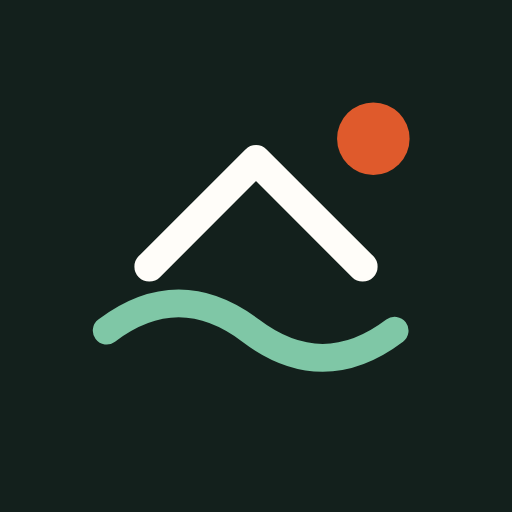
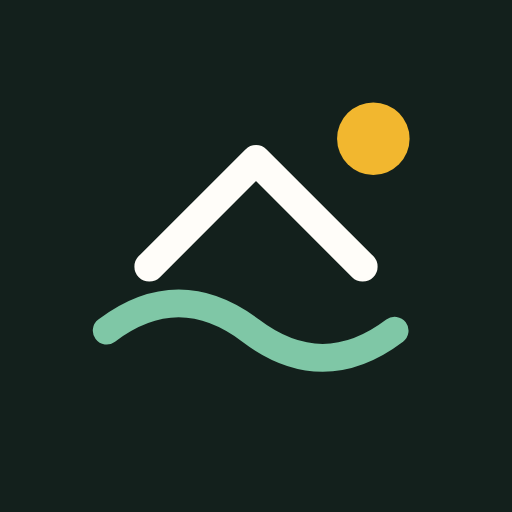
هویت بصری متمایز: رنگبندی سنگ خنک، فیروزهای برای کنشها و زعفرانی برای فرصتها بهجای کرم و نارنجی پیشفرض؛ حذف نشانههای قالب عمومی (رنگ تکواژه در تیتر، خط تزئینی برچسبها، جداکنندهٔ نقطه)، تصویر اشتراک و آیکونهای تازه
Claude-Session: https://claude.ai/code/session_01KKj2fgjXQ9aW6joweZhZpV

Changed region(s): [[0.6562, 0.1875, 0.8125, 0.3438]]

diff --git a/assets/js/app.js b/assets/js/app.js
@@ -275,7 +275,7 @@ const App = (() => {
       const total = cs.reduce((a, x) => a + x.s.n, 0);
       return `<div class="prov__col"><h3>${p.name}<small>${fa(total)} آگهی</small></h3>${cs.slice(0, 8).map(({ c, s }) => {
         const ppm = s.ppm && (s.ppm.apartment || s.ppm.villa);
-        return `<a class="city-row" href="/melk/${c.id}"><b>${c.name}</b><span class="n">${fa(s.n)}</span><small>${c.tags.join("، ")}${ppm ? ` · میانه متری ${money(ppm)}` : ""}</small><span class="bar"><i style="width:${Math.max(3, (s.n / max) * 100)}%"></i></span></a>`;
+        return `<a class="city-row" href="/melk/${c.id}"><b>${c.name}</b><span class="n">${fa(s.n)}</span><small>${c.tags.join("، ")}${ppm ? `، میانه متری ${money(ppm)}` : ""}</small><span class="bar"><i style="width:${Math.max(3, (s.n / max) * 100)}%"></i></span></a>`;
       }).join("")}${cs.length > 8 ? `<a class="btn btn--ghost btn--sm" href="#/market" style="margin-top:8px">${fa(cs.length - 8)} شهر دیگر</a>` : ""}</div>`;
     }).join("");
   }
@@ -422,8 +422,8 @@ const App = (() => {
       const r = await DataLayer.tickets().catch(() => ({ items: [] }));
       if (!$("#tkList")) return;
       $("#tkList").innerHTML = r.items.length ? r.items.map((t) => `<details class="ticket ${t.user_unread ? "is-new" : ""}" data-t="${t.id}" ${t.user_unread ? "open" : ""}>
-          <summary><b>#${fa(t.id)} · ${esc(t.category_name)}</b><span class="tk-st tk-st--${t.status}">${esc(t.status_name)}</span><small>${UI.ago(t.updated)}</small></summary>
-          <div class="ticket__msgs">${t.messages.map((m) => `<div class="tmsg tmsg--${m.sender}"><small>${m.sender === "user" ? "شما" : m.sender === "auto" ? "پاسخ خودکار" : "پشتیبانی"} · ${UI.ago(m.created)}</small><p>${esc(m.body || "")}</p>${m.has_image ? `<button type="button" class="btn btn--line btn--sm" data-img="${m.id}">نمایش پیوست</button>` : ""}</div>`).join("")}</div>
+          <summary><b>#${fa(t.id)}، ${esc(t.category_name)}</b><span class="tk-st tk-st--${t.status}">${esc(t.status_name)}</span><small>${UI.ago(t.updated)}</small></summary>
+          <div class="ticket__msgs">${t.messages.map((m) => `<div class="tmsg tmsg--${m.sender}"><small>${m.sender === "user" ? "شما" : m.sender === "auto" ? "پاسخ خودکار" : "پشتیبانی"}، ${UI.ago(m.created)}</small><p>${esc(m.body || "")}</p>${m.has_image ? `<button type="button" class="btn btn--line btn--sm" data-img="${m.id}">نمایش پیوست</button>` : ""}</div>`).join("")}</div>
           ${t.status !== "closed" ? `<form class="ticket__reply" data-r="${t.id}"><textarea class="input" rows="2" maxlength="3000" placeholder="پاسخ یا توضیح بیشتر"></textarea><input type="file" accept="image/jpeg,image/png,image/webp,application/pdf"><button class="btn btn--ink btn--sm">ارسال</button></form>` : `<p class="small muted">این تیکت بسته شده است؛ برای مشکل تازه، تیکت تازه ثبت کنید.</p>`}
         </details>`).join("") : `<div class="empty"><p>هنوز تیکتی ثبت نکردهاید.</p></div>`;
       r.items.filter((t) => t.user_unread).forEach((t) => DataLayer.seenTicket(t.id));
@@ -555,14 +555,14 @@ const App = (() => {
       const row = mrows.rows.find((r) => r.deal === "sale" && r.kind === kg && norm(r.district) === norm(dist));
       if (!row || row.n < 5) { $("#vOut").innerHTML = `<span>در ${esc(dist)} هنوز ${row ? "فقط " + fa(row.n) + " آگهی معتبر" : "آگهی معتبری"} از این نوع هست؛ برای تخمین قابل اتکا دستکم ۵ آگهی هممحله لازم است.</span>`; return; }
       if (!area) { $("#vOut").innerHTML = "<span>متراژ را وارد کن.</span>"; return; }
-      $("#vOut").innerHTML = `<b>حدود ${money(row.median * area)} تومان</b><span>بازهٔ معمول ${money(row.p25 * area)} تا ${money(row.p75 * area)} · میانهٔ هر متر در ${esc(dist)} ${money(row.median)} از ${fa(row.n)} آگهی معتبر، به نرخ امروز${DataLayer.samples ? " (داده نمونه)" : ""}</span>${year ? `<span class="small">سن بنا در این بازه لحاظ نشده؛ برای اثر دقیق سال ساخت، آگهیهای همین محله را در <a href="#/market?city=${city}">صفحهٔ بازار</a> ببین.</span>` : ""}`;
+      $("#vOut").innerHTML = `<b>حدود ${money(row.median * area)} تومان</b><span>بازهٔ معمول ${money(row.p25 * area)} تا ${money(row.p75 * area)}، میانهٔ هر متر در ${esc(dist)} ${money(row.median)} از ${fa(row.n)} آگهی معتبر، به نرخ امروز${DataLayer.samples ? " (داده نمونه)" : ""}</span>${year ? `<span class="small">سن بنا در این بازه لحاظ نشده؛ برای اثر دقیق سال ساخت، آگهیهای همین محله را در <a href="#/market?city=${city}">صفحهٔ بازار</a> ببین.</span>` : ""}`;
     };
     fillDists().then(val);
     const loan = () => {
       const P = num($("#lAmt").value), r = num($("#lRate").value) / 1200, n = num($("#lYears").value) * 12;
       if (!P || !n) { $("#lOut").innerHTML = ""; return; }
       const pay = r ? (P * r) / (1 - Math.pow(1 + r, -n)) : P / n;
-      $("#lOut").innerHTML = `<b>${fa(Math.round(pay))} تومان</b><span>قسط ماهانه · کل بازپرداخت ${money(pay * n)} · سود ${money(pay * n - P)}</span>`;
+      $("#lOut").innerHTML = `<b>${fa(Math.round(pay))} تومان</b><span>قسط ماهانه، کل بازپرداخت ${money(pay * n)}، سود ${money(pay * n - P)}</span>`;
     };
     const conv = () => {
       const d = num($("#cDep").value), rent = num($("#cRent").value), r = num($("#cRate").value) / 100;
@@ -886,7 +886,7 @@ const App = (() => {
     return `<div class="vcard">
       <div class="vcard__top">
         ${l.score != null ? `<span class="score score--${l.score >= 85 ? "hi" : l.score >= 65 ? "mid" : "lo"} score--big"><b>${fa(Math.round(l.score))}</b><i>از ۱۰۰</i></span>` : ""}
-        <div><h3>${UI.dealPill(v)}</h3><p class="small muted">${UI.confLine(v)}${v.rank ? ` · رتبهٔ ${fa(v.rank)} از ${fa(v.rank_n)} فرصت این محله` : ""}</p></div>
+        <div><h3>${UI.dealPill(v)}</h3><p class="small muted">${UI.confLine(v)}${v.rank ? `، رتبهٔ ${fa(v.rank)} از ${fa(v.rank_n)} فرصت این محله` : ""}</p></div>
       </div>
       ${claimNote(l, v)}
       ${expM ? UI.priceBar(meM, expM) : ""}
@@ -1001,7 +1001,7 @@ const App = (() => {
           <header class="ad__head">
             <div class="ad__badges">${UI.typePill(l)}${l.price_drop ? `<span class="pill pill--drop">${fa(Math.round(l.price_drop * 100))}٪ کاهش قیمت</span>` : ""}${l.source === "sample" ? '<span class="pill pill--demo">آگهی نمونه</span>' : ""}</div>
             <h1>${UI.tt(l.title)}</h1>
-            <p class="muted">${esc([c && "استان " + UI.provOf(c.province).name, c ? c.name : l.city_name, l.district].filter(Boolean).join("، "))}${l.first_seen ? " · ثبت در سامانه " + UI.ago(l.first_seen) : ""}</p>
+            <p class="muted">${esc([c && "استان " + UI.provOf(c.province).name, c ? c.name : l.city_name, l.district].filter(Boolean).join("، "))}${l.first_seen ? "، ثبت در سامانه " + UI.ago(l.first_seen) : ""}</p>
             <div class="ad__price">${UI.priceHTML(l, true)}</div>
           </header>
           <div class="facts">${facts.filter(([, x]) => x).map(([k, x]) => `<div><span>${k}</span><b>${esc(x)}</b></div>`).join("")}</div>
@@ -1033,7 +1033,7 @@ const App = (() => {
     document.title = `${l.title} | ${cfg.site.name}`;
     const cc = UI.cityOf(l.city_key), pos = l.latlng_exact || !cc ? [l.lat, l.lng] : [cc.lat, cc.lng];
     const mini = UI.makeMap($("#mini"), { center: pos, zoom: l.latlng_exact ? 14 : 12, wheel: false });
-    if (mini) L.circle(pos, { radius: l.latlng_exact ? 150 : 2200, color: "#df5a2c", weight: 2, fillOpacity: 0.1, dashArray: l.latlng_exact ? null : "6 6" }).addTo(mini);
+    if (mini) L.circle(pos, { radius: l.latlng_exact ? 150 : 2200, color: "#0b6f79", weight: 2, fillOpacity: 0.1, dashArray: l.latlng_exact ? null : "6 6" }).addTo(mini);
     $("#gal").addEventListener("click", (e) => { const b = e.target.closest("[data-img]"); if (b) lightbox(l, imgs.length ? Math.min(+b.dataset.img, imgs.length - 1) : +b.dataset.img); });
     $("#adFav").addEventListener("click", (e) => { toggleFav(l.id); e.currentTarget.querySelector("span").textContent = state.favs.has(l.id) ? "ذخیره شد" : "ذخیره"; });
     $("#adShare").addEventListener("click", async () => {
@@ -1082,7 +1082,7 @@ const App = (() => {
   function hbars(groups, cityMed, unit = "") {
     if (!groups.length) return `<p class="muted small">دادهٔ کافی نیست.</p>`;
     const max = Math.max(...groups.map((g) => g.median_ppm), cityMed || 0) * 1.08;
-    return `<div class="hb">${groups.map((g) => `<div class="hb__row"><span class="hb__lab">${esc(g.label)}<small>${fa(g.n)} آگهی${g.low ? " · دادهٔ کم" : ""}</small></span><span class="hb__track"><i style="width:${(g.median_ppm / max) * 100}%"></i>${cityMed ? `<em style="right:${(cityMed / max) * 100}%"></em>` : ""}</span><b>${mln(g.median_ppm)}${unit}</b></div>`).join("")}</div>`;
+    return `<div class="hb">${groups.map((g) => `<div class="hb__row"><span class="hb__lab">${esc(g.label)}<small>${fa(g.n)} آگهی${g.low ? "، دادهٔ کم" : ""}</small></span><span class="hb__track"><i style="width:${(g.median_ppm / max) * 100}%"></i>${cityMed ? `<em style="right:${(cityMed / max) * 100}%"></em>` : ""}</span><b>${mln(g.median_ppm)}${unit}</b></div>`).join("")}</div>`;
   }
   async function marketPage(params) {
     const city = params.city || "rasht", deal = params.deal === "rent" ? "rent" : "sale", kind = params.kind || "apartment";
@@ -1122,7 +1122,7 @@ const App = (() => {
       : `<b class="amen__pct">${a.premium >= 0 ? "+" : "−"}${pct(a.premium)}</b><p>درون یک محله، ${a.name} هر متر را حدود ${pct(a.premium)} ${a.premium >= 0 ? "گرانتر" : "ارزانتر"} میکند؛ در ${fa(a.higher)} از ${fa(a.districts)} محله گرانتر است.${a.share != null ? ` ${pct(a.share)} آگهیها ${a.name} دارند.` : ""}</p>`;
     $("#mBody").innerHTML = `
       <header class="mkt-hero">
-        <span class="kicker">بازار ${KG[kind]} ${esc(cname)}${DataLayer.samples ? " · داده نمونه و ساختگی" : ""}</span>
+        <span class="kicker">بازار ${KG[kind]} ${esc(cname)}${DataLayer.samples ? "، داده نمونه و ساختگی" : ""}</span>
         <h1>${rentWord}هر متر ${KG[kind]} در ${esc(cname)}، میانه <span class="hl">${mln(o.median_ppm)}</span> میلیون تومان${o.spread && o.n_districts >= 2 ? `؛ محلهها تا <span class="hl">${fa(+o.spread.toFixed(1))}</span> برابر فرق دارند` : ""}</h1>
         <p class="lead">قیمت هر متر، بودجه، خواب، سن بنا و محلهبهمحله؛ همه از آگهیهای معتبر ${UI.dealName(deal)} ${KG[kind]} ${esc(cname)} در سایتهای آگهی. روی هر ردیف بزن تا همان آگهیها را ببینی.</p>
         <div class="mkt-kpis">
@@ -1260,7 +1260,7 @@ const App = (() => {
       }
       setTimeout(() => $("#aiInput").focus(), 50);
     }
-    const mini = (ls) => `<div class="mini">${ls.map((l) => `<a href="#/ad/${encodeURIComponent(l.id)}"><span class="mini__img">${UI.media(l)}</span><span><b>${UI.tt(l.title)}</b><small>${l.score != null ? fa(Math.round(l.score)) + " امتیاز · " : ""}${esc(UI.pinLabel(l))}${l.verdict && l.verdict.delta < 0 ? "، " + UI.gapPct(l.verdict) + " زیر قیمت" : ""}</small></span></a>`).join("")}</div>`;
+    const mini = (ls) => `<div class="mini">${ls.map((l) => `<a href="#/ad/${encodeURIComponent(l.id)}"><span class="mini__img">${UI.media(l)}</span><span><b>${UI.tt(l.title)}</b><small>${l.score != null ? fa(Math.round(l.score)) + " امتیاز، " : ""}${esc(UI.pinLabel(l))}${l.verdict && l.verdict.delta < 0 ? "، " + UI.gapPct(l.verdict) + " زیر قیمت" : ""}</small></span></a>`).join("")}</div>`;
     async function respond(v) {
       const it = NLP.intent(v);
       if (it === "greet") { say("درود! کدام شهر و چه نوع ملکی؟ بودجه را هم بگو."); return; }

diff --git a/assets/css/style.css b/assets/css/style.css
@@ -8,11 +8,12 @@
   font-weight: 100 900; font-style: normal; font-display: swap;
 }
 :root {
-  --paper: #f4f0e8; --paper-2: #ece6da; --surface: #fffdf9; --sunk: #f0ebe1;
-  --ink: #13201c; --ink-2: #45524c; --muted: #7d867f; --line: #e1d9ca; --line-2: #d3c9b6;
-  --forest: #1d4a3c; --forest-2: #2c6a55; --moss: #dfe8df;
-  --narenj: #df5a2c; --narenj-2: #c24a20; --narenj-soft: #fbe6dc;
-  --sea: #2a6d8c; --sea-soft: #dcebf1; --gold: #b4862a;
+  /* سنگ خنک، جوهر، سبز برند، فیروزهای برای کنشها و زعفرانی برای فرصتها */
+  --paper: #f3f5f2; --paper-2: #e8ece6; --surface: #ffffff; --sunk: #edf1eb;
+  --ink: #12211d; --ink-2: #3d4b45; --muted: #69766f; --line: #dbe1d8; --line-2: #c7cfc4;
+  --forest: #1d4a3c; --forest-2: #2c6a55; --moss: #e0ebe4;
+  --narenj: #0b6f79; --narenj-2: #08585f; --narenj-soft: #dbeef0;
+  --sea: #2a6d8c; --sea-soft: #dcebf1; --gold: #a87a10;
   --great: #17784a; --good: #4c9a5c; --fair: #8b8f86; --high: #c97a1f; --over: #bf3a2b;
   --sale: #1d4a3c; --rent: #6d3fb4; --daily: #c8366b;
   --on-dark: #fffdf9;
@@ -29,7 +30,7 @@
   --paper: #0d1311; --paper-2: #121a17; --surface: #151e1b; --sunk: #101714;
   --ink: #ece6da; --ink-2: #b7c0b9; --muted: #838d86; --line: #243029; --line-2: #2f3d36;
   --forest: #7fc7a6; --forest-2: #9bd8bb; --moss: #1b2a24;
-  --narenj: #f07a4b; --narenj-2: #ff9468; --narenj-soft: #3a2018;
+  --narenj: #4fc0c9; --narenj-2: #7ad3da; --narenj-soft: #11302f;
   --sea: #6cb4d4; --sea-soft: #13262e; --sale: #7fc7a6; --rent: #b293ea; --daily: #f07aa3;
   --on-dark: #0d1311;
   --shadow-2: 0 2px 4px rgba(0,0,0,.3), 0 12px 32px -12px rgba(0,0,0,.6);
@@ -78,8 +79,7 @@ p { margin: 0; }
 .icon-btn svg { width: 21px; height: 21px; }
 .dot-count { position: absolute; top: 4px; inset-inline-start: 4px; min-width: 18px; height: 18px; padding: 0 5px; border-radius: 9px; background: var(--narenj); color: #fff; font-size: 11px; font-weight: 700; display: grid; place-items: center; line-height: 1; }
 .dot-count[hidden] { display: none; }
-.kicker { font-size: 13px; font-weight: 700; color: var(--narenj); display: inline-flex; align-items: center; gap: 8px; }
-.kicker::before { content: ""; width: 22px; height: 2px; background: currentColor; border-radius: 2px; }
+.kicker { font-size: 13.5px; font-weight: 700; color: var(--forest); display: inline-flex; align-items: center; gap: 8px; }
 .pill { display: inline-flex; align-items: center; gap: 5px; height: 26px; padding: 0 10px; border-radius: 999px; font-size: 12px; font-weight: 700; white-space: nowrap; }
 .pill--sale { background: var(--sale); color: var(--on-dark); }
 .pill--rent { background: var(--rent); color: #fff; }
@@ -136,7 +136,7 @@ p { margin: 0; }
 .hero { position: relative; padding: 48px 0 0; overflow: clip; }
 .hero__grid { position: relative; z-index: 2; display: grid; grid-template-columns: minmax(0, 1.25fr) minmax(0, .9fr); gap: 48px; align-items: center; }
 .hero h1 { font-size: clamp(34px, 4.3vw, 64px); font-weight: 900; line-height: 1.18; margin: 16px 0 18px; text-wrap: balance; }
-.hero h1 .accent { color: var(--narenj); }
+.hero h1 .accent { color: inherit; }
 .hero h1 .soft { color: var(--forest); }
 .hero__lead { font-size: 17px; color: var(--ink-2); max-width: 560px; }
 .search-card { margin-top: 28px; background: var(--surface); border-radius: var(--r-xl); box-shadow: var(--shadow-3); border: 1px solid var(--line); padding: 10px; }
@@ -216,7 +216,7 @@ p { margin: 0; }
 .card__fav { position: absolute; top: 10px; inset-inline-end: 10px; width: 38px; height: 38px; border-radius: 50%; background: rgba(255,253,249,.92); display: grid; place-items: center; color: #13201c; transition: transform .2s; z-index: 2; }
 .card__fav svg { width: 19px; height: 19px; }
 .card__fav:hover { transform: scale(1.1); }
-.card__fav.is-on { color: #df5a2c; }
+.card__fav.is-on { color: #0b6f79; }
 .card__fav.is-on svg { fill: currentColor; }
 .card__body { padding: 16px 18px 14px; display: flex; flex-direction: column; gap: 4px; flex: 1; }
 .card__price { display: flex; align-items: baseline; gap: 6px; flex-wrap: wrap; }
@@ -290,7 +290,7 @@ p { margin: 0; }
 .pin--car { border-color: var(--sea); } .pin--car::after { border-top-color: var(--sea); }
 .is-hot .pin { background: var(--ink); color: var(--paper); transform: translate(-50%, -100%) scale(1.15); }
 .cluster { display: inline-flex; align-items: center; gap: 6px; transform: translate(-50%, -50%); white-space: nowrap; background: #13201c; color: #fffdf9; border-radius: 999px; padding: 4px 14px 4px 4px; font: 700 12.5px Vazirmatn, sans-serif; box-shadow: 0 0 0 5px rgba(19,32,28,.16), 0 6px 16px rgba(0,0,0,.25); cursor: pointer; transition: transform .15s; }
-.cluster b { background: #df5a2c; color: #fff; border-radius: 999px; min-width: 26px; height: 26px; display: grid; place-items: center; padding: 0 7px; }
+.cluster b { background: #0b6f79; color: #fff; border-radius: 999px; min-width: 26px; height: 26px; display: grid; place-items: center; padding: 0 7px; }
 .cluster:hover { transform: translate(-50%, -50%) scale(1.07); }
 
 /* ---------- صفحه آگهی ---------- */
@@ -377,12 +377,12 @@ p { margin: 0; }
 .broker { display: grid; grid-template-columns: 1.1fr 1fr; gap: 56px; align-items: center; }
 .broker h2 { font-size: clamp(28px, 3.4vw, 46px); font-weight: 900; margin: 12px 0 14px; }
 .broker > div > p { color: rgba(255,253,249,.75); font-size: 16px; }
-.broker .kicker { color: #ff9a70; }
+.broker .kicker { color: #7fd3d9; }
 .broker__cta { display: flex; gap: 10px; flex-wrap: wrap; margin-top: 26px; }
 .broker__cta .btn--line { background: transparent; color: #fffdf9; border-color: rgba(255,255,255,.3); }
 .steps { list-style: none; padding: 0; margin: 0; display: grid; gap: 12px; counter-reset: s; }
 .steps li { counter-increment: s; display: grid; grid-template-columns: 48px 1fr; gap: 14px; align-items: center; padding: 16px; background: rgba(255,255,255,.05); border-radius: var(--r-lg); border: 1px solid rgba(255,255,255,.08); }
-.steps li::before { content: counter(s, persian); width: 48px; height: 48px; border-radius: 50%; background: #df5a2c; color: #fff; display: grid; place-items: center; font-weight: 900; font-size: 19px; }
+.steps li::before { content: counter(s, persian); width: 48px; height: 48px; border-radius: 50%; background: #0b6f79; color: #fff; display: grid; place-items: center; font-weight: 900; font-size: 19px; }
 .steps b { display: block; font-size: 15.5px; }
 .steps span { font-size: 13.5px; color: rgba(255,253,249,.7); }
 
@@ -615,7 +615,7 @@ dialog.dlg[open] { animation: pop .25s var(--ease); }
 /* ==========================================================
    حکم قیمت، شناسنامه، بازار و پرداخت (نسخهٔ محلهمحور)
    ========================================================== */
-:root { --gold-hl: #d6fb00; --gold-ink: #13201c; --sus: #b26a00; --sus-bg: #fff4dc; }
+:root { --gold-hl: #f2b72f; --gold-ink: #2a1d00; --sus: #b26a00; --sus-bg: #fff4dc; }
 :root[data-theme="dark"] { --sus: #f0b44a; --sus-bg: #2c2210; }
 .lab { display: inline-flex; align-items: center; height: 24px; padding: 0 9px; border-radius: 6px; font-size: 12px; font-weight: 800; white-space: nowrap; }
 .lab--gold { background: var(--gold-hl); color: var(--gold-ink); box-shadow: inset 0 -2px 0 rgba(0,0,0,.12); }

diff --git a/assets/js/admin.js b/assets/js/admin.js
@@ -26,7 +26,7 @@
     catch { $("#root").innerHTML = `<div class="login"><div class="panel" style="max-width:520px"><h2>پنل مدیریت فقط با سرور محلی کار میکند</h2><p class="muted">فایل <b>start-windows.bat</b> (ویندوز) یا <b>start-mac-linux.sh</b> را اجرا کنید؛ سپس نشانی <code>http://127.0.0.1:8000/admin.html</code> باز میشود.</p></div></div>`; return; }
     const setup = !cfg.admin_ready;
     $("#root").innerHTML = `<div class="login"><form id="lf">
-      <div class="brand"><svg class="brand__mark" viewBox="0 0 48 48"><rect width="48" height="48" rx="14" fill="#13201c"/><path d="M10 31c4.5-3.4 9-3.4 13.5 0s9 3.4 13.5 0" stroke="#7fc7a6" stroke-width="2.6" fill="none" stroke-linecap="round"/><path d="M14 25l10-10 10 10" stroke="#fffdf9" stroke-width="2.8" fill="none" stroke-linecap="round" stroke-linejoin="round"/><circle cx="35" cy="13" r="3.4" fill="#df5a2c"/></svg><span class="brand__txt"><b>پنل مدیریت</b><small>${esc(cfg.site.name)}</small></span></div>
+      <div class="brand"><svg class="brand__mark" viewBox="0 0 48 48"><rect width="48" height="48" rx="14" fill="#13201c"/><path d="M10 31c4.5-3.4 9-3.4 13.5 0s9 3.4 13.5 0" stroke="#7fc7a6" stroke-width="2.6" fill="none" stroke-linecap="round"/><path d="M14 25l10-10 10 10" stroke="#fffdf9" stroke-width="2.8" fill="none" stroke-linecap="round" stroke-linejoin="round"/><circle cx="35" cy="13" r="3.4" fill="#f2b72f"/></svg><span class="brand__txt"><b>پنل مدیریت</b><small>${esc(cfg.site.name)}</small></span></div>
       <h2 style="font-size:20px">${setup ? "تعیین رمز مدیر" : "ورود"}</h2>
       ${setup ? '<p class="muted small">اولین ورود است. رمزی دستکم ۶ نویسه انتخاب کنید و آن را جایی نگه دارید.</p>' : ""}
       <input class="input" type="password" name="pw" placeholder="رمز" required minlength="6" autocomplete="${setup ? "new-password" : "current-password"}">
@@ -53,7 +53,7 @@
     try { S = await api("admin/state"); } catch (e) { if (e.message !== "401") toast(e.message); return; }
     $("#root").innerHTML = `<div class="adm">
       <aside class="side">
-        <a class="brand" href="./" target="_blank"><svg class="brand__mark" viewBox="0 0 48 48"><rect width="48" height="48" rx="14" fill="#fffdf9" fill-opacity=".08"/><path d="M10 31c4.5-3.4 9-3.4 13.5 0s9 3.4 13.5 0" stroke="#7fc7a6" stroke-width="2.6" fill="none" stroke-linecap="round"/><path d="M14 25l10-10 10 10" stroke="#fffdf9" stroke-width="2.8" fill="none" stroke-linecap="round" stroke-linejoin="round"/><circle cx="35" cy="13" r="3.4" fill="#df5a2c"/></svg><span class="brand__txt"><b>${esc(S.site.name)}</b><small>پنل مدیریت</small></span></a>
+        <a class="brand" href="./" target="_blank"><svg class="brand__mark" viewBox="0 0 48 48"><rect width="48" height="48" rx="14" fill="#fffdf9" fill-opacity=".08"/><path d="M10 31c4.5-3.4 9-3.4 13.5 0s9 3.4 13.5 0" stroke="#7fc7a6" stroke-width="2.6" fill="none" stroke-linecap="round"/><path d="M14 25l10-10 10 10" stroke="#fffdf9" stroke-width="2.8" fill="none" stroke-linecap="round" stroke-linejoin="round"/><circle cx="35" cy="13" r="3.4" fill="#f2b72f"/></svg><span class="brand__txt"><b>${esc(S.site.name)}</b><small>پنل مدیریت</small></span></a>
         ${TABS.map(([k, n]) => `<button data-tab="${k}" class="${tab === k ? "is-on" : ""}">${n}${k === "excluded" && S.stats.excluded ? `<span class="badge">${fa(S.stats.excluded)}</span>` : ""}${k === "support" && S.tickets_unread ? `<span class="badge">${fa(S.tickets_unread)}</span>` : ""}</button>`).join("")}
         <div class="side__foot"><a href="./" target="_blank">مشاهده سایت ↗</a><a href="#" id="logout">خروج</a></div>
       </aside>
@@ -366,7 +366,7 @@
     const sp = r.support, CAT = { payment: "پرداخت و اشتراک", sms: "پیامک و کد ورود", listing: "آگهیها و قیمتها", other: "سایر" };
     main().innerHTML = `<h1>پشتیبانی و تیکتها</h1><p class="muted">تیکتهای کاربران؛ پیوست رسید تیکتهای پرداخت، اگر کاربر پرداخت کارتبهکارتِ در انتظار داشته باشد، خودکار به همان پرداخت وصل میشود و در «کاربران و پرداختها» برای تأیید میآید.</p>
       <div class="panel"><div style="display:flex;gap:6px;flex-wrap:wrap">${[["", "همه"], ["open", "در انتظار پاسخ"], ["answered", "پاسخ داده شد"], ["closed", "بسته"]].map(([k, n]) => `<button class="btn btn--sm ${st === k ? "btn--ink" : "btn--line"}" data-f="${k}">${n}</button>`).join("")}</div></div>
-      ${r.items.length ? r.items.map((t) => `<div class="panel" style="${t.admin_unread && t.status !== "closed" ? "border-color:var(--hot, #df5a2c)" : ""}">
+      ${r.items.length ? r.items.map((t) => `<div class="panel" style="${t.admin_unread && t.status !== "closed" ? "border-color:var(--narenj)" : ""}">
         <div style="display:flex;gap:10px;flex-wrap:wrap;align-items:center"><b>#${fa(t.id)} · ${esc(t.category_name)}</b><span dir="ltr">${esc(t.phone)}</span><span class="muted small">${when(t.created)}</span><span class="small">${esc(t.status_name)}</span>${t.payment_id ? `<span class="small">پرداخت #${fa(t.payment_id)}</span>` : ""}</div>
         <div style="display:grid;gap:6px;margin:10px 0">${t.messages.map((m) => `<div style="background:var(--sunk, #f4f1ea);border-radius:10px;padding:8px 12px"><small class="muted">${m.sender === "user" ? "کاربر" : m.sender === "auto" ? "پاسخ خودکار" : "پشتیبانی"} · ${when(m.created)}</small><div style="white-space:pre-wrap;overflow-wrap:anywhere">${esc(m.body || "")}</div>${m.has_image ? `<button class="btn btn--line btn--sm" data-img="${m.id}">نمایش پیوست</button>` : ""}</div>`).join("")}</div>
         <form data-t="${t.id}" style="display:grid;gap:8px"><textarea class="input" rows="2" placeholder="پاسخ به کاربر" style="padding:8px 12px"></textarea>

diff --git a/assets/js/ui.js b/assets/js/ui.js
@@ -91,7 +91,7 @@ const UI = (() => {
     else if (k === "apartment" || k === "office") obj = `<g transform="translate(150 40)"><rect width="100" height="162" rx="4" fill="#fffdf9"/>${Array.from({ length: 6 }, (_, r) => [0, 1, 2].map((c) => `<rect x="${12 + c * 28}" y="${12 + r * 24}" width="20" height="14" rx="2" fill="${(r + c + v) % 3 ? "#a9cfdc" : "#f2c48d"}"/>`).join("")).join("")}</g>`;
     else if (k === "suite") obj = `<g transform="translate(150 112)"><rect width="100" height="80" rx="4" fill="#fffdf9"/><rect y="-8" width="100" height="10" rx="3" fill="${roof}"/><rect x="14" y="20" width="30" height="24" rx="2" fill="#a9cfdc"/><rect x="58" y="30" width="26" height="50" rx="2" fill="#7a4a2a"/></g>`;
     else if (k === "shop") obj = `<g transform="translate(130 92)"><rect width="140" height="100" rx="3" fill="#fffdf9"/>${[0, 1, 2, 3, 4, 5, 6].map((i) => `<path d="M${i * 20} 0 h20 l-3 16 h-14z" fill="${i % 2 ? "#fffdf9" : roof}"/>`).join("")}<rect x="14" y="40" width="70" height="60" fill="#cfe4ea"/><rect x="94" y="48" width="32" height="52" fill="#45524c"/></g>`;
-    else if (k === "garden") obj = Array.from({ length: 9 }, (_, i) => `<g transform="translate(${40 + i * 40} ${166 + (i % 2) * 18})"><rect x="-3" width="6" height="22" fill="#7a4a2a"/><circle r="18" cy="-6" fill="${g2}"/><circle r="4" cx="6" cy="-10" fill="#df5a2c"/></g>`).join("");
+    else if (k === "garden") obj = Array.from({ length: 9 }, (_, i) => `<g transform="translate(${40 + i * 40} ${166 + (i % 2) * 18})"><rect x="-3" width="6" height="22" fill="#7a4a2a"/><circle r="18" cy="-6" fill="${g2}"/><circle r="4" cx="6" cy="-10" fill="#0b6f79"/></g>`).join("");
     else if (k === "land") obj = `<g stroke="#7a4a2a" stroke-width="3">${Array.from({ length: 11 }, (_, i) => `<line x1="${30 + i * 34}" y1="172" x2="${30 + i * 34}" y2="202"/>`).join("")}<line x1="30" y1="180" x2="370" y2="180"/><line x1="30" y1="194" x2="370" y2="194"/></g>`;
     return `<svg viewBox="0 0 400 240" preserveAspectRatio="xMidYMid slice" role="img" aria-label="${esc(l.title)}"><defs><linearGradient id="${id}" x1="0" y1="0" x2="0" y2="1"><stop offset="0" stop-color="${s1}"/><stop offset="1" stop-color="${s2}"/></linearGradient></defs><rect width="400" height="240" fill="url(#${id})"/><circle cx="${sx}" cy="50" r="20" fill="#f6d27a" opacity=".85"/>${ground}${obj}</svg>`;
   }
@@ -157,7 +157,7 @@ const UI = (() => {
     const ppmLine = l.deal === "sale" && l.ppm ? `متری ${money(l.ppm)}` : "";
     const verdictRow = l.label === "sus"
       ? `<p class="card__verdict"><span class="lab lab--sus">قیمت مشکوک</span> <span class="small">${esc(l.sus_reason || "")}</span></p>`
-      : v ? `<p class="card__verdict">${dealPill(v)}</p><p class="card__conf">${confLine(v)}${v.wide ? " · قیمتهای این محله پراکندهاند" : ""}</p>`
+      : v ? `<p class="card__verdict">${dealPill(v)}</p><p class="card__conf">${confLine(v)}${v.wide ? "، قیمتهای این محله پراکندهاند" : ""}</p>`
       : `<p class="card__verdict"><span class="lab lab--pending">در انتظار داده</span></p>`;
     return `<article class="card${l.label === "gold" ? " card--gold" : ""}" data-id="${esc(l.id)}">
       <div class="card__media">${media(l)}

diff --git a/admin.html b/admin.html
@@ -15,7 +15,7 @@
     .side button { text-align: start; padding: 11px 14px; border-radius: 12px; font-weight: 600; color: rgba(255,253,249,.75); display: flex; justify-content: space-between; align-items: center; }
     .side button:hover { background: rgba(255,255,255,.06); color: #fff; }
     .side button.is-on { background: rgba(255,255,255,.1); color: #fff; }
-    .side .badge { background: #df5a2c; color: #fff; border-radius: 999px; font-size: 11px; padding: 0 7px; min-width: 20px; text-align: center; }
+    .side .badge { background: #f2b72f; color: #fff; border-radius: 999px; font-size: 11px; padding: 0 7px; min-width: 20px; text-align: center; }
     .side__foot { margin-top: auto; display: grid; gap: 6px; font-size: 13px; }
     .side__foot a { color: rgba(255,253,249,.75); padding: 8px 14px; }
     .main { padding: 28px 32px 60px; max-width: 1180px; }

diff --git a/index.html b/index.html
@@ -23,7 +23,7 @@
           <rect width="48" height="48" rx="14" fill="#13201c"/>
           <path d="M10 31c4.5-3.4 9-3.4 13.5 0s9 3.4 13.5 0" stroke="#7fc7a6" stroke-width="2.6" fill="none" stroke-linecap="round"/>
           <path d="M14 25l10-10 10 10" stroke="#fffdf9" stroke-width="2.8" fill="none" stroke-linecap="round" stroke-linejoin="round"/>
-          <circle cx="35" cy="13" r="3.4" fill="#df5a2c"/>
+          <circle cx="35" cy="13" r="3.4" fill="#f2b72f"/>
         </svg>
         <span class="brand__txt"><b data-site="name">فرصتیاب</b><small data-site="tagline">ملک زیر قیمت، محله به محله</small></span>
       </a>

diff --git a/server/seo.py b/server/seo.py
@@ -269,7 +269,7 @@ def city(app, base, key):
             f". قیمت هر متر محلههای {name}، آپارتمان و ویلای زیر قیمت و مقایسهٔ هر آگهی با محلهٔ خودش.")
     crumbs = [("صفحهٔ اصلی", "/"), (f"ملک {name}", city_path(key))]
     body = (_crumbs_html(crumbs)
-            + f'<h2>دربارهٔ بازار ملک {ESC(name)}</h2><p class="seo-upd">استان {ESC(prov)} · آخرین بهروزرسانی: {jdate(_updated(st))}</p>'
+            + f'<h2>دربارهٔ بازار ملک {ESC(name)}</h2><p class="seo-upd">استان {ESC(prov)}؛ آخرین بهروزرسانی: {jdate(_updated(st))}</p>'
             + ("".join(f"<p>{ESC(p)}</p>" for p in paras) if paras else f"<p>آگهیهای ملک {ESC(name)} بهتدریج جمعآوری میشوند؛ با رسیدن داده کافی، قیمت هر متر محلهها و فرصتها اینجا نمایش داده میشود.</p>")
             + (f'<h3>آگهیها و فرصتهای {ESC(name)}</h3><ul>{"".join(_li(l) for l in rows)}</ul>' if rows else "")
             + (f'<h3>محلههای {ESC(name)}</h3><ul class="seo-cols">' + "".join(
@@ -411,7 +411,7 @@ def guide_city(app, base, key):
     title = f"راهنمای خرید آپارتمان در {name}: بهترین محلهها، قیمت هر متر و فرصتها | {site['name']}"
     desc = f"کدام محلهٔ {name} برای خرید آپارتمان مناسبتر است؟ قیمت هر متر همهٔ محلهها، بودجههای رایج و فرصتهای زیر قیمت، از {fa(o['valid'])} آگهی معتبر."
     crumbs = [("صفحهٔ اصلی", "/"), (f"ملک {name}", city_path(key)), ("راهنمای خرید", guide_path(key))]
-    body = (_crumbs_html(crumbs) + f'<h1>راهنمای خرید آپارتمان در {ESC(name)}</h1><p class="seo-upd">آخرین بهروزرسانی: {jdate(_updated(st))} · از {fa(o["valid"])} آگهی معتبر</p>'
+    body = (_crumbs_html(crumbs) + f'<h1>راهنمای خرید آپارتمان در {ESC(name)}</h1><p class="seo-upd">آخرین بهروزرسانی: {jdate(_updated(st))}؛ از {fa(o["valid"])} آگهی معتبر</p>'
             + "".join(f"<p>{ESC(p)}</p>" for p in paras)
             + (f'<h2>قیمت هر متر آپارتمان در محلههای {ESC(name)} (از ارزان به گران)</h2><div class="tbl-scroll"><table class="tbl"><thead><tr><th>محله</th><th>میانهٔ هر متر</th><th>میانهٔ قیمت کل</th><th>آگهی</th><th>فرصت</th></tr></thead><tbody>{rows_ppm}</tbody></table></div>' if rows_ppm else "")
             + (f"<h2>با چه بودجهای چند آگهی هست؟</h2><ul>{bud}</ul>" if bud else "")
